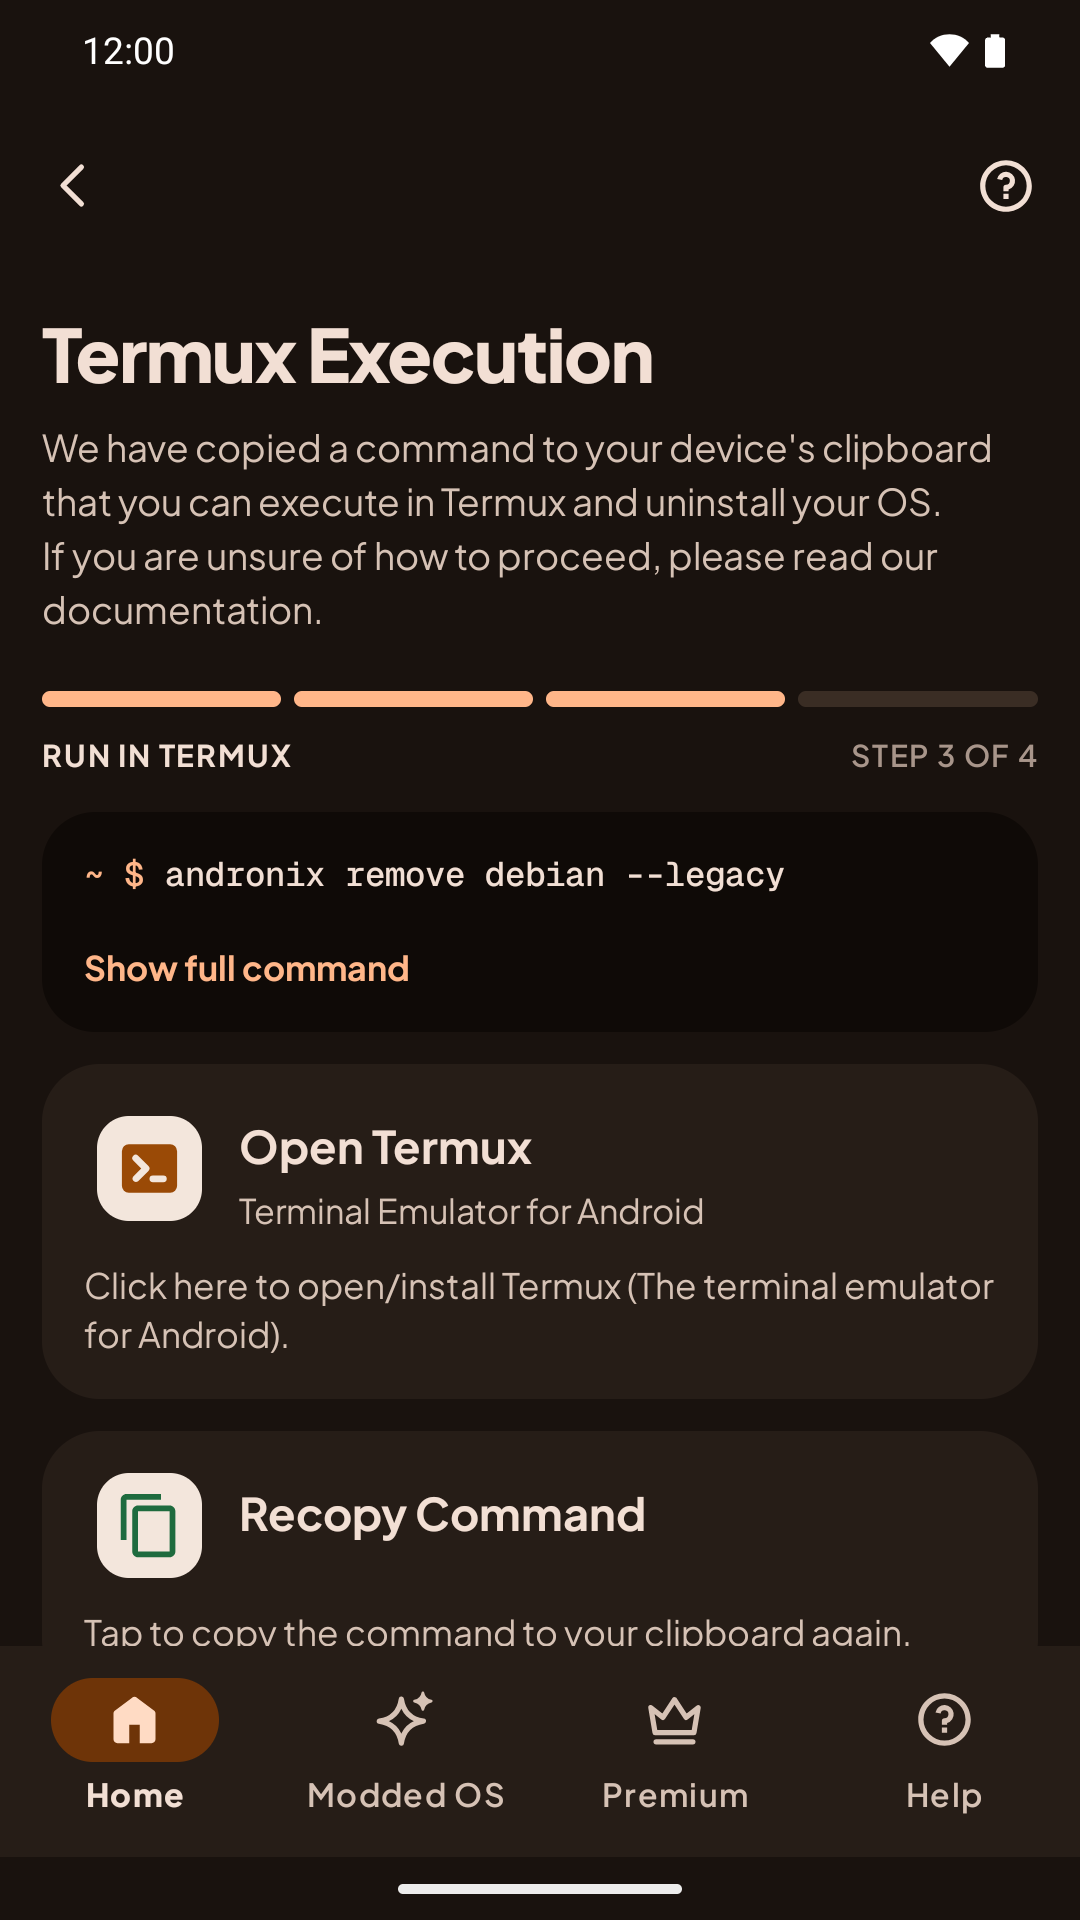
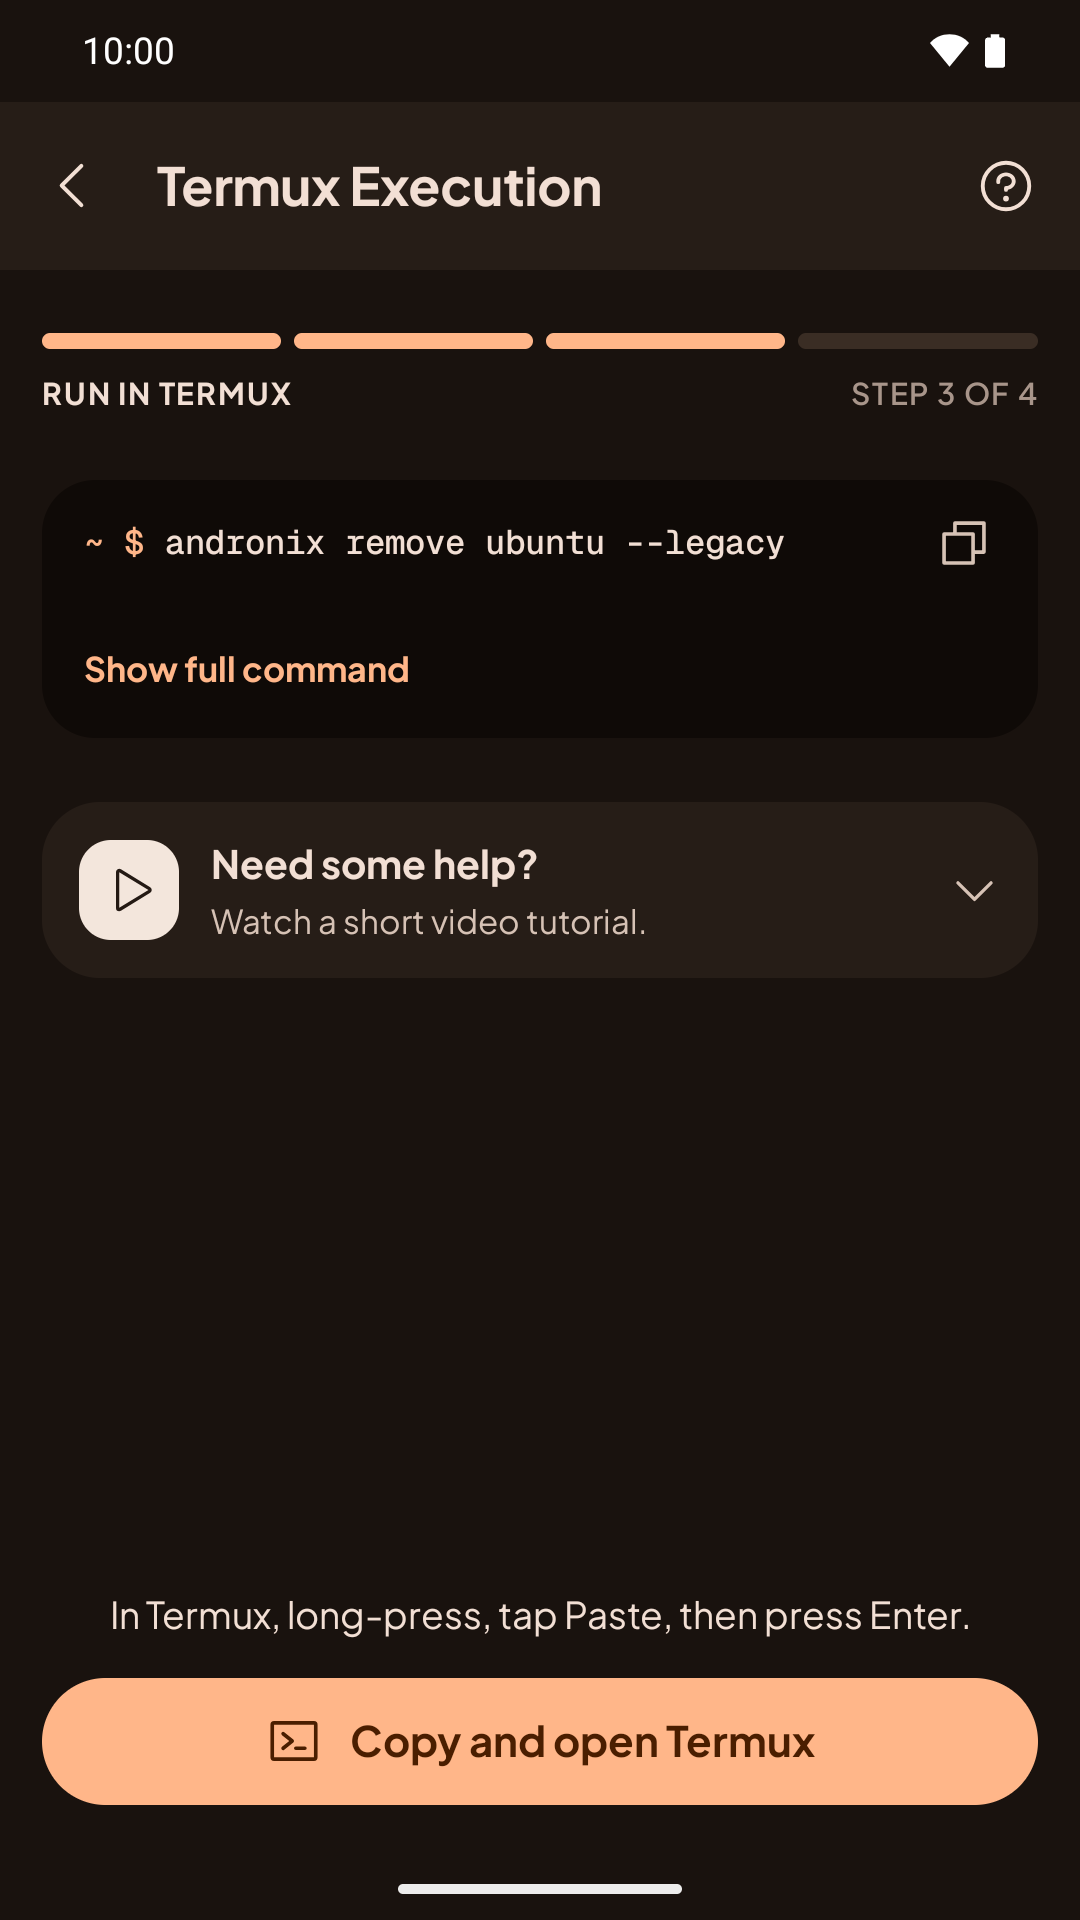
App 10.0.6 screenshots: app10-termux-copied ('Copied. Paste it in Termux.') and the uninstall step retake (Copy and open Termux), from android's renders

diff --git a/DOCS_SHOTS.md b/DOCS_SHOTS.md
@@ -3,8 +3,9 @@
 ## 10.0.6 update (Oct 8, renders from android, 10.0.6 debug build, 1080 x 1920)
 
 - Replaced: `app10-home` (Linux distros card, new icons), `app10-termux-step` (Copy and open Termux).
-- New: `app10-termux-nothing-happened` (the hint 30 s after coming back from Termux).
-- Still to come from android: `app10-termux-copied` (the "Copied. Paste it in Termux." message, without Android's clipboard preview, which shows the install ID) and a retake of `app10-termux-step-uninstall`. Until `app10-termux-copied.png` exists, its AppShot renders nothing.
+- New: `app10-termux-nothing-happened` (the hint 30 s after coming back from Termux) and `app10-termux-copied` (the "Copied. Paste it in Termux." message). In `app10-termux-copied` the strip with the two buttons comes from the same screen at rest, because Android 16's clipboard preview (which shows the install ID) covered it; the rest is the live frame.
+- Retaken: `app10-termux-step-uninstall`, now `andronix remove ubuntu --legacy` with Copy and open Termux (no Next, no hint).
+- The free step shows "You'll also need Termux:X11" because the render emulator has no Termux:X11; with it installed, that line isn't there.
 
 ## Capture status (ui-revamp 5b2cd649, installer v2.0.1, Sept 26)
 
@@ -30,7 +31,7 @@
 - `termux-vncserver-start`: App 10 uses Termux:X11.
 
 **Noted:**
-- `app10-termux-step-uninstall` shows `andronix remove debian --legacy`, which is intentional and documented.
+- `app10-termux-step-uninstall` shows `andronix remove ubuntu --legacy`, which is intentional and documented.
 - `app10-premium-owner` shows `andronix update --channel stable`, which is documented.
 - `app10-phantom-tip` says "How to fix it", which the docs text matches.
 
